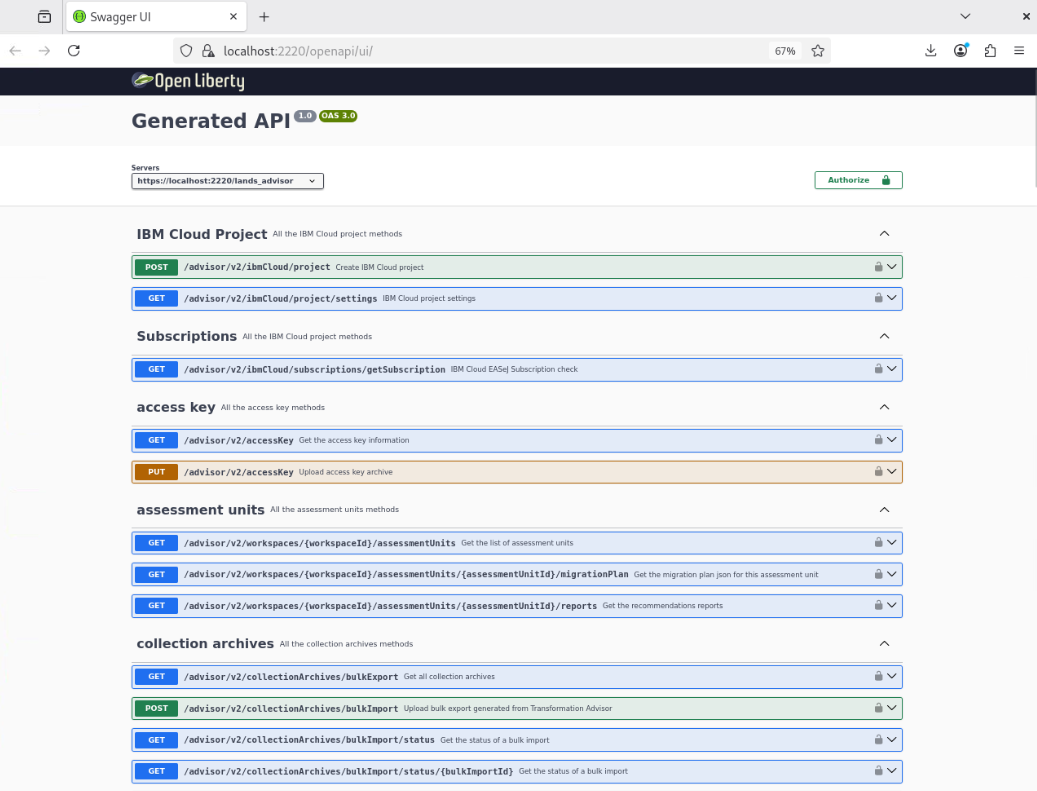
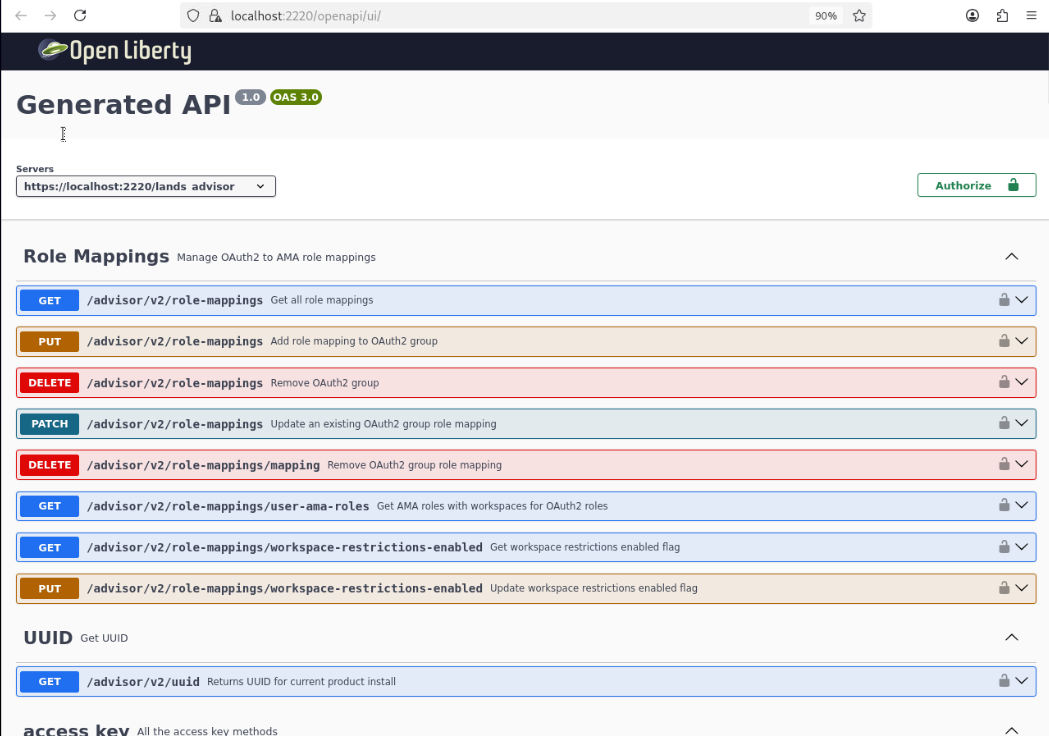
Updated 5.4

diff --git a/README.md b/README.md
@@ -280,7 +280,10 @@ Application Modernization Accelerator (AMA) also provides Swagger interfaces to 
 
 2. Look at the different APIs which allow to create a new workspace, upload a data collection or bulk, upload the license key and much more.
 
-    The create for example the demo workspace which you just created manually, you could use the following command:
+    Scroll down to the section **collection archives**.
+    <kbd>![AMA_Swagger_APIs2.png](./images/media/AMA_Swagger_APIs2.png)</kbd>
+
+    To create for example the demo workspace which you just created manually, you could use the **uploadSampleData** API via the following command:
 
         curl -k -X 'POST' \
         'https://localhost:2220/lands_advisor/advisor/v2/collectionArchives/uploadSampleData' \
